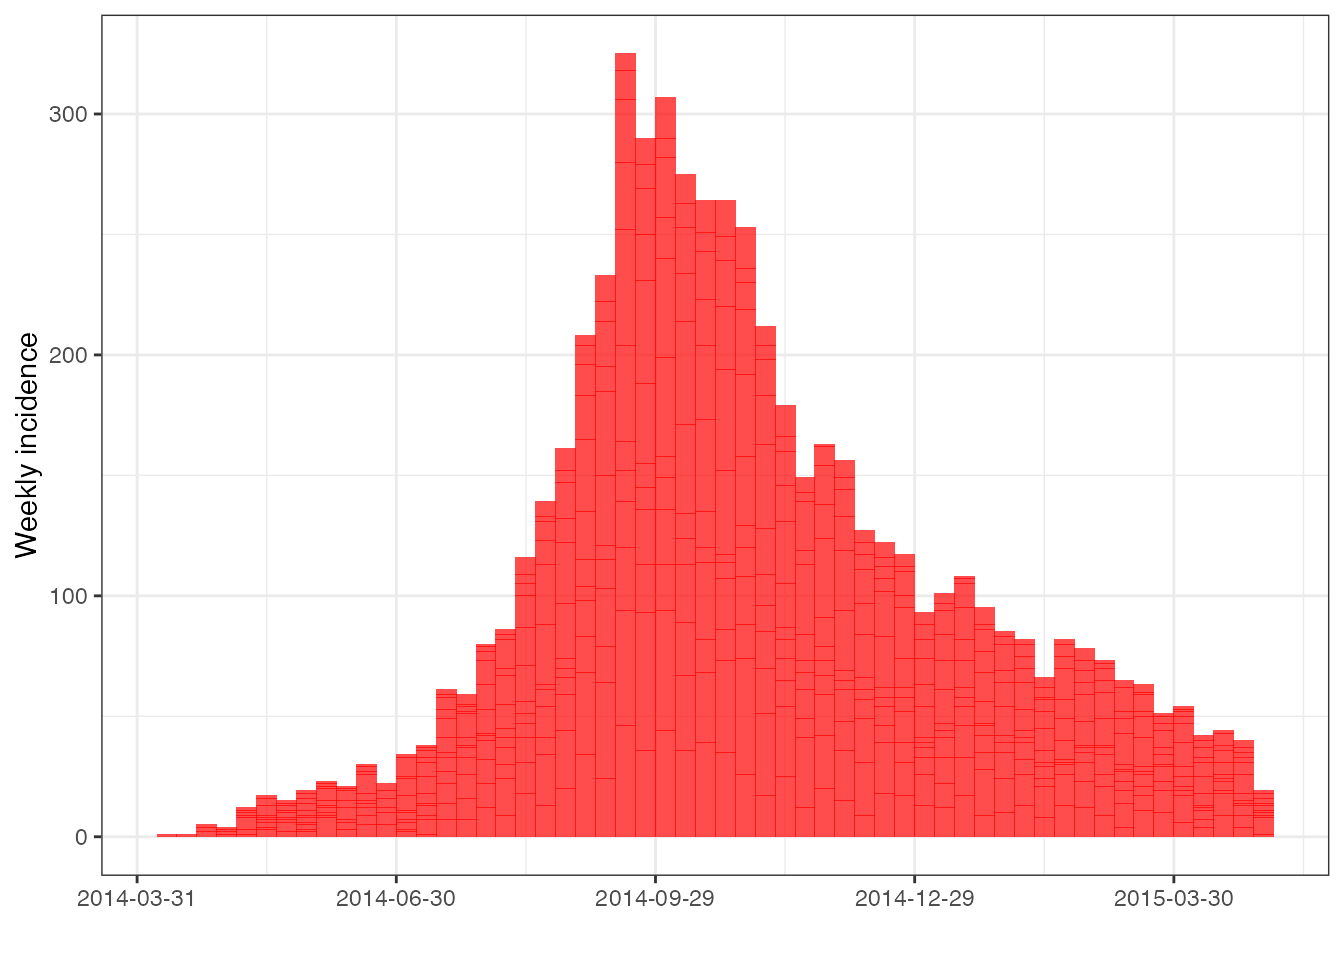
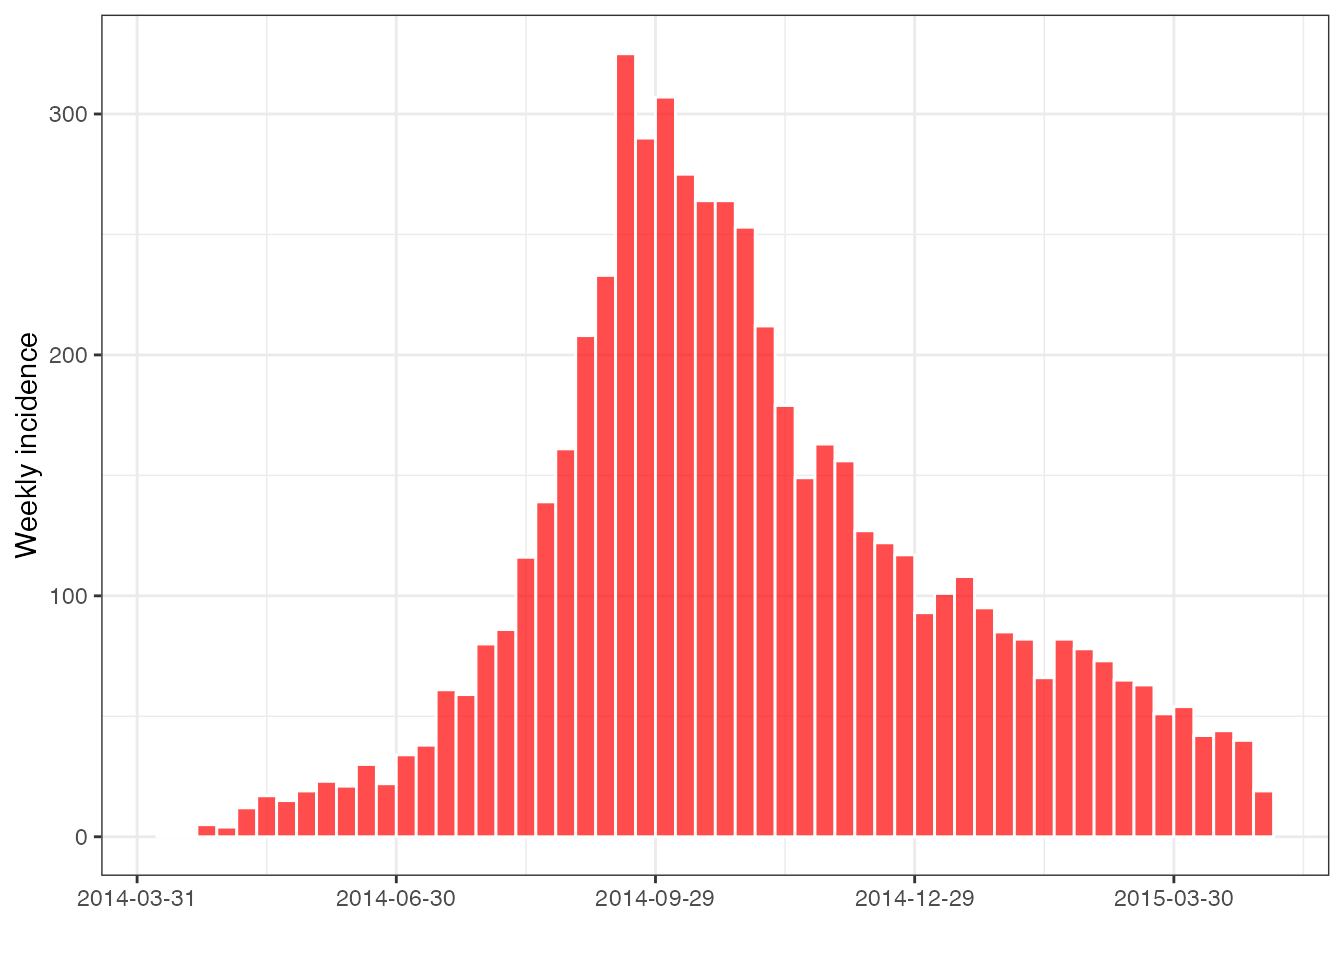
Built site for incidence2: 0.2.2.9000@6b29948

Changed region(s): [[0.125, 0.0938, 0.9688, 0.875]]

diff --git a/articles/customizing_incidence_plots.html b/articles/customizing_incidence_plots.html
@@ -185,9 +185,7 @@
 <span class="co">#&gt; For multi-facet plotting try facet_plot()</span></code></pre></div>
 <p><img src="customizing_incidence_plots_files/figure-html/fill-2.png" width="672" style="display: block; margin: auto;"></p>
 <div class="sourceCode" id="cb6"><pre class="downlit sourceCode r">
-<code class="sourceCode R"><span class="va">i</span> <span class="op">%&gt;%</span> <span class="fu"><a href="https://rdrr.io/r/graphics/plot.default.html">plot</a></span><span class="op">(</span>fill <span class="op">=</span> <span class="st">"red"</span><span class="op">)</span>
-<span class="co">#&gt; plot() can only stack/dodge by one variable.</span>
-<span class="co">#&gt; For multi-facet plotting try facet_plot()</span></code></pre></div>
+<code class="sourceCode R"><span class="va">i</span> <span class="op">%&gt;%</span> <span class="fu"><a href="../reference/regroup.html">regroup</a></span><span class="op">(</span><span class="op">)</span> <span class="op">%&gt;%</span> <span class="fu"><a href="https://rdrr.io/r/graphics/plot.default.html">plot</a></span><span class="op">(</span>fill <span class="op">=</span> <span class="st">"red"</span>, color <span class="op">=</span> <span class="st">"white"</span><span class="op">)</span></code></pre></div>
 <p><img src="customizing_incidence_plots_files/figure-html/fill-3.png" width="672" style="display: block; margin: auto;"></p>
 <p>Sometimes we may wish to change rotation of the x-axis and this can be done by passing an additional angle argument:</p>
 <div class="sourceCode" id="cb7"><pre class="downlit sourceCode r">
@@ -218,7 +216,7 @@
 <code class="sourceCode R"><span class="va">i</span> <span class="op">%&gt;%</span> <span class="fu"><a href="../reference/plot.incidence2.html">facet_plot</a></span><span class="op">(</span>facets <span class="op">=</span> <span class="va">hospital</span>, fill <span class="op">=</span> <span class="va">gender</span>, n_breaks <span class="op">=</span> <span class="fl">3</span>, nrow <span class="op">=</span> <span class="fl">4</span><span class="op">)</span></code></pre></div>
 <p><img src="customizing_incidence_plots_files/figure-html/facets-2.png" width="672" style="display: block; margin: auto;"></p>
 <div class="sourceCode" id="cb11"><pre class="downlit sourceCode r">
-<code class="sourceCode R"><span class="va">i</span> <span class="op">%&gt;%</span> <span class="fu"><a href="../reference/plot.incidence2.html">facet_plot</a></span><span class="op">(</span>facets <span class="op">=</span> <span class="va">gender</span>, fill <span class="op">=</span> <span class="st">"grey"</span><span class="op">)</span></code></pre></div>
+<code class="sourceCode R"><span class="va">i</span> <span class="op">%&gt;%</span> <span class="fu"><a href="../reference/regroup.html">regroup</a></span><span class="op">(</span><span class="va">gender</span><span class="op">)</span> <span class="op">%&gt;%</span> <span class="fu"><a href="../reference/plot.incidence2.html">facet_plot</a></span><span class="op">(</span>facets <span class="op">=</span> <span class="va">gender</span>, fill <span class="op">=</span> <span class="st">"grey"</span>, color <span class="op">=</span> <span class="st">"white"</span><span class="op">)</span></code></pre></div>
 <p><img src="customizing_incidence_plots_files/figure-html/facets-3.png" width="672" style="display: block; margin: auto;"></p>
 </div>
 <div id="miscellaneous" class="section level1">

diff --git a/articles/handling_incidence_objects.html b/articles/handling_incidence_objects.html
@@ -280,22 +280,22 @@
 <span class="co"># slice operations preserve class</span>
 <span class="va">inci</span> <span class="op">%&gt;%</span> <span class="fu"><a href="https://dplyr.tidyverse.org/reference/slice.html">slice_sample</a></span><span class="op">(</span>n <span class="op">=</span> <span class="fl">10</span><span class="op">)</span>
 <span class="co">#&gt; An incidence2 object: 10 x 4</span>
-<span class="co">#&gt; 83 cases from 2014-W29 to 2015-W18</span>
+<span class="co">#&gt; 65 cases from 2014-W19 to 2015-W18</span>
 <span class="co">#&gt; interval: 1 monday week</span>
 <span class="co">#&gt; cumulative: FALSE</span>
 <span class="co">#&gt; </span>
 <span class="co">#&gt;    date_index hospital                                     gender count</span>
 <span class="co">#&gt;    &lt;yrwk&gt;     &lt;fct&gt;                                        &lt;fct&gt;  &lt;int&gt;</span>
-<span class="co">#&gt;  1 2015-W16   &lt;NA&gt;                                         f          9</span>
-<span class="co">#&gt;  2 2015-W18   Connaught Hospital                           f          7</span>
-<span class="co">#&gt;  3 2014-W30   Connaught Hospital                           f          9</span>
-<span class="co">#&gt;  4 2014-W29   Princess Christian Maternity Hospital (PCMH) f          6</span>
-<span class="co">#&gt;  5 2015-W18   Connaught Hospital                           m          2</span>
-<span class="co">#&gt;  6 2014-W49   Connaught Hospital                           f         21</span>
-<span class="co">#&gt;  7 2014-W51   Princess Christian Maternity Hospital (PCMH) m          4</span>
-<span class="co">#&gt;  8 2015-W14   &lt;NA&gt;                                         m         10</span>
-<span class="co">#&gt;  9 2015-W09   other                                        m          5</span>
-<span class="co">#&gt; 10 2014-W30   Connaught Hospital                           m         10</span>
+<span class="co">#&gt;  1 2014-W21   Military Hospital                            m          2</span>
+<span class="co">#&gt;  2 2014-W19   Military Hospital                            f          5</span>
+<span class="co">#&gt;  3 2015-W04   other                                        f          7</span>
+<span class="co">#&gt;  4 2014-W30   other                                        m          2</span>
+<span class="co">#&gt;  5 2014-W37   Military Hospital                            f         15</span>
+<span class="co">#&gt;  6 2014-W23   Connaught Hospital                           m          5</span>
+<span class="co">#&gt;  7 2014-W29   &lt;NA&gt;                                         f          7</span>
+<span class="co">#&gt;  8 2015-W18   other                                        m          2</span>
+<span class="co">#&gt;  9 2015-W12   Princess Christian Maternity Hospital (PCMH) f          1</span>
+<span class="co">#&gt; 10 2014-W41   other                                        m         19</span>
 
 <span class="va">inci</span> <span class="op">%&gt;%</span>  <span class="fu"><a href="https://dplyr.tidyverse.org/reference/slice.html">slice</a></span><span class="op">(</span><span class="fl">1</span>, <span class="fl">5</span>, <span class="fl">10</span><span class="op">)</span>
 <span class="co">#&gt; An incidence2 object: 3 x 4</span>

diff --git a/articles/Introduction.html b/articles/Introduction.html
@@ -132,7 +132,7 @@
 <li><p><strong><code><a href="../reference/as_tibble.html">as_tibble()</a></code></strong>: converts an <code><a href="../reference/incidence.html">incidence()</a></code> object into a <code>tibble</code>.</p></li>
 </ul>
 </li>
-<li><p>Accessor functions: <strong><code><a href="../reference/accessors.html">get_count_names()</a></code></strong>, <strong><code><a href="../reference/accessors.html">get_dates_name()</a></code></strong>, <strong><code><a href="../reference/deprecated-accessors.html">get_dates()</a></code></strong>, <strong><code><a href="../reference/accessors.html">get_group_names()</a></code></strong>, <strong><code><a href="http://www.reconverse.org/grates/reference/grate_accessors.html">get_interval()</a></code></strong>, <strong><code><a href="../reference/accessors.html">get_timespan()</a></code></strong> and <strong><code><a href="../reference/accessors.html">get_n()</a></code></strong>.</p></li>
+<li><p>Accessor functions: <strong><code><a href="../reference/accessors.html">get_count_names()</a></code></strong>, <strong><code><a href="../reference/accessors.html">get_dates_name()</a></code></strong>, <strong><code><a href="../reference/accessors.html">get_date_index()</a></code></strong>, <strong><code><a href="../reference/accessors.html">get_group_names()</a></code></strong>, <strong><code><a href="http://www.reconverse.org/grates/reference/grate_accessors.html">get_interval()</a></code></strong>, <strong><code><a href="../reference/accessors.html">get_timespan()</a></code></strong> and <strong><code><a href="../reference/accessors.html">get_n()</a></code></strong>.</p></li>
 </ul>
 </div>
 <div id="worked-example-simulated-ebola-outbreak" class="section level1">
